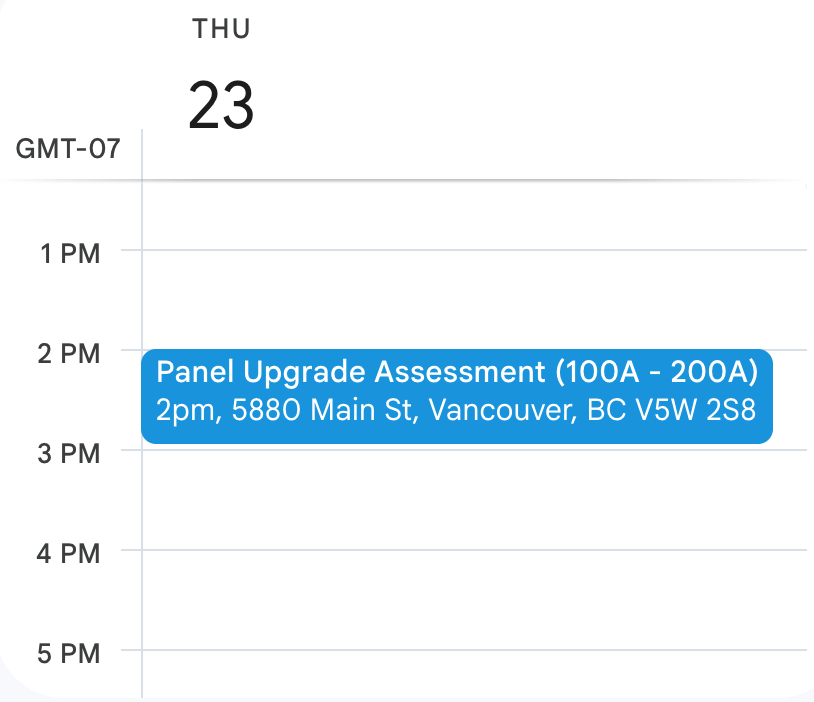
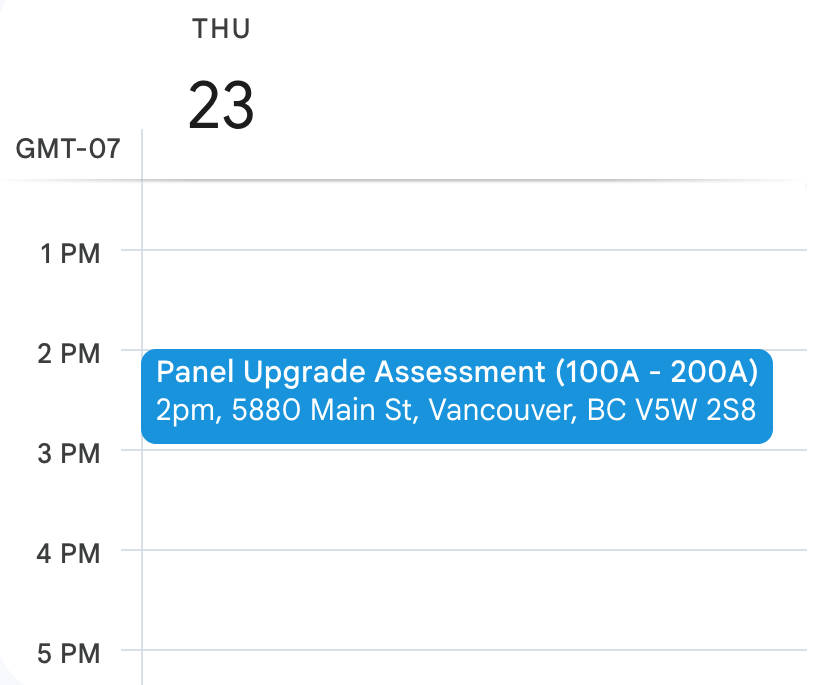
Marketing hero + trust bar fix pass: bolder headline, solid Book a Demo, restored left chat window, cropped calendar, real notification image, matched Dat-Track tag width, +15% trust tags, smoother voice wave

diff --git a/src/components/marketing/HeroSection.tsx b/src/components/marketing/HeroSection.tsx
@@ -38,7 +38,7 @@ export function HeroSection() {
         <h1
           style={{
             fontSize: 'clamp(34px, 4.2vw, 52px)',
-            fontWeight: 500,
+            fontWeight: 700,
             color: 'var(--color-text-primary)',
             lineHeight: 1.25,
             letterSpacing: '-0.028em',
@@ -93,15 +93,13 @@ export function HeroSection() {
         >
           <Link
             href="/contact"
-            className="btn-ghost hero-book-demo"
+            className="btn-primary hero-book-demo"
             style={{
               padding: '12px 26px',
               fontSize: '15px',
               display: 'inline-flex',
               alignItems: 'center',
               gap: '8px',
-              color: 'var(--color-brand)',
-              borderColor: 'var(--color-brand-border)',
             }}
           >
             Book a Demo
@@ -154,14 +152,12 @@ export function HeroSection() {
                   <Image
                     src="/images/hero-calendar.png"
                     alt="Google Calendar booking"
-                    width={820}
-                    height={700}
+                    width={814}
+                    height={685}
                     sizes="(max-width: 900px) 100vw, 400px"
                     style={{
                       width: '100%',
-                      height: '100%',
-                      objectFit: 'cover',
-                      objectPosition: 'center top',
+                      height: 'auto',
                       display: 'block',
                     }}
                   />
@@ -181,10 +177,10 @@ export function HeroSection() {
                 </div>
                 <div className="hero-notif-body">
                   <Image
-                    src="/images/hero-notification.jpeg"
+                    src="/images/hero-notification.png"
                     alt="iOS appointment confirmation notification"
-                    width={1024}
-                    height={200}
+                    width={2520}
+                    height={953}
                     sizes="(max-width: 900px) 100vw, 400px"
                     style={{
                       width: '100%',
@@ -215,20 +211,16 @@ export function HeroSection() {
         .hero-book-demo {
           transition: background 180ms ease, transform 180ms ease, box-shadow 180ms ease;
         }
-        .hero-book-demo:hover {
-          background: rgba(65, 105, 255, 0.06);
-          transform: translateY(-1px);
-        }
         .hero-book-demo:hover svg { transform: translateX(2px); }
         .hero-book-demo svg { transition: transform 180ms ease; }
 
         .hero-showcase {
           display: grid;
-          grid-template-columns: 1.15fr 0.85fr;
+          grid-template-columns: 1.3fr 0.7fr;
           gap: 18px;
-          max-width: 980px;
+          max-width: 1020px;
           margin: 0 auto;
-          align-items: stretch;
+          align-items: start;
         }
         .hero-window {
           background: #ffffff;
@@ -240,31 +232,22 @@ export function HeroSection() {
             0 4px 12px rgba(15, 23, 41, 0.04);
           text-align: left;
         }
-        .hero-window-left {
-          align-self: stretch;
-        }
         .hero-side-stack {
           display: flex;
           flex-direction: column;
           gap: 18px;
-          height: 100%;
         }
         .hero-window-calendar {
-          flex: 1;
-          min-height: 0;
           border-radius: 16px;
           background: #ffffff;
           display: flex;
           flex-direction: column;
         }
         .hero-calendar-body {
-          flex: 1;
-          min-height: 0;
           overflow: hidden;
         }
         .hero-window-notif {
           border-radius: 16px;
-          flex-shrink: 0;
         }
         .hero-window-header {
           padding: 12px 18px;
@@ -281,10 +264,6 @@ export function HeroSection() {
         }
         @media (max-width: 900px) {
           .hero-showcase { grid-template-columns: 1fr; max-width: 560px; }
-          .hero-side-stack { height: auto; }
-          .hero-window-calendar { flex: none; min-height: unset; }
-          .hero-calendar-body { height: auto; }
-          .hero-window-calendar img { height: auto !important; object-fit: contain !important; }
         }
         @media (max-width: 640px) {
           section { padding: 36px 0 72px !important; }

diff --git a/src/components/marketing/TrustBar.tsx b/src/components/marketing/TrustBar.tsx
@@ -12,9 +12,9 @@ function IllusionLogoMark() {
   return (
     <div
       style={{
-        width: '42px',
-        height: '42px',
-        borderRadius: '10px',
+        width: '48px',
+        height: '48px',
+        borderRadius: '12px',
         background: 'linear-gradient(135deg, #253055 0%, #4169FF 100%)',
         display: 'flex',
         alignItems: 'center',
@@ -26,7 +26,7 @@ function IllusionLogoMark() {
       <span
         style={{
           color: '#ffffff',
-          fontSize: '20px',
+          fontSize: '23px',
           fontWeight: 800,
           letterSpacing: '-0.02em',
           lineHeight: 1,
@@ -98,13 +98,13 @@ export function TrustBar() {
               display: 'flex',
               alignItems: 'center',
               justifyContent: 'center',
-              padding: '18px 28px',
+              padding: '21px 32px',
               background: '#ffffff',
               border: '1px solid var(--color-border)',
               borderRadius: 'var(--radius-lg)',
               boxShadow: '0 1px 2px rgba(15, 23, 41, 0.04)',
               flexShrink: 0,
-              height: '100px',
+              height: '115px',
             }}
           >
             <Image
@@ -113,36 +113,37 @@ export function TrustBar() {
               width={600}
               height={245}
               style={{
-                height: '58px',
+                height: '67px',
                 width: 'auto',
                 display: 'block',
               }}
             />
           </div>
 
-          {/* Real client — Dat-Track (logo enlarged ~30% within tag) */}
+          {/* Real client — Dat-Track — tag width matches VGE tag */}
           <div
-            className="trust-chip"
+            className="trust-chip trust-chip-dattrack"
             style={{
               display: 'flex',
               alignItems: 'center',
               justifyContent: 'center',
-              padding: '18px 28px',
+              padding: '21px 7px',
               background: '#ffffff',
               border: '1px solid var(--color-border)',
               borderRadius: 'var(--radius-lg)',
               boxShadow: '0 1px 2px rgba(15, 23, 41, 0.04)',
               flexShrink: 0,
-              height: '100px',
+              height: '115px',
+              overflow: 'hidden',
             }}
           >
             <Image
               src="/images/dattrack-logo.png"
               alt="Dat-Track"
-              width={600}
-              height={220}
+              width={3202}
+              height={1280}
               style={{
-                height: '76px',
+                height: '87px',
                 width: 'auto',
                 display: 'block',
               }}
@@ -156,22 +157,22 @@ export function TrustBar() {
             style={{
               display: 'flex',
               alignItems: 'center',
-              gap: '12px',
-              padding: '18px 28px',
+              gap: '14px',
+              padding: '21px 32px',
               background: '#ffffff',
               border: '1px solid var(--color-border)',
               borderRadius: 'var(--radius-lg)',
               boxShadow: '0 1px 2px rgba(15, 23, 41, 0.04)',
               flexShrink: 0,
-              height: '100px',
-              width: '270px',
+              height: '115px',
+              width: '310px',
               overflow: 'hidden',
             }}
           >
             <IllusionLogoMark />
             <span
               style={{
-                fontSize: '19px',
+                fontSize: '22px',
                 fontWeight: 700,
                 color: 'var(--color-text-primary)',
                 letterSpacing: '-0.01em',

diff --git a/src/components/marketing/WhatWeBuildSection.tsx b/src/components/marketing/WhatWeBuildSection.tsx
@@ -382,18 +382,22 @@ export function WhatWeBuildSection() {
         .wwb-voice-wave span {
           display: inline-block;
           width: 2px;
+          height: 12px;
           background: var(--color-positive);
           border-radius: 1px;
-          animation: wwbWave 1.1s ease-in-out infinite;
+          transform-origin: 50% 50%;
+          will-change: transform;
+          animation: wwbWave 900ms ease-in-out infinite;
         }
-        .wwb-voice-wave span:nth-child(1) { height: 5px; animation-delay: 0s; }
-        .wwb-voice-wave span:nth-child(2) { height: 9px; animation-delay: 0.12s; }
-        .wwb-voice-wave span:nth-child(3) { height: 12px; animation-delay: 0.24s; }
-        .wwb-voice-wave span:nth-child(4) { height: 7px; animation-delay: 0.36s; }
-        .wwb-voice-wave span:nth-child(5) { height: 4px; animation-delay: 0.48s; }
+        .wwb-voice-wave span:nth-child(1) { animation-delay: -750ms; }
+        .wwb-voice-wave span:nth-child(2) { animation-delay: -300ms; }
+        .wwb-voice-wave span:nth-child(3) { animation-delay: -150ms; }
+        .wwb-voice-wave span:nth-child(4) { animation-delay: -450ms; }
+        .wwb-voice-wave span:nth-child(5) { animation-delay: -600ms; }
         @keyframes wwbWave {
-          0%, 100% { transform: scaleY(0.4); }
-          50% { transform: scaleY(1); }
+          0%   { transform: scaleY(0.25); }
+          50%  { transform: scaleY(1); }
+          100% { transform: scaleY(0.25); }
         }
 
         .wwb-voice-transcript {